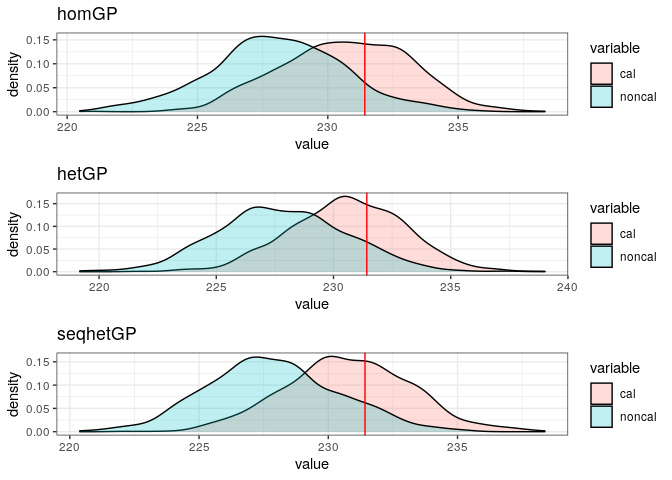
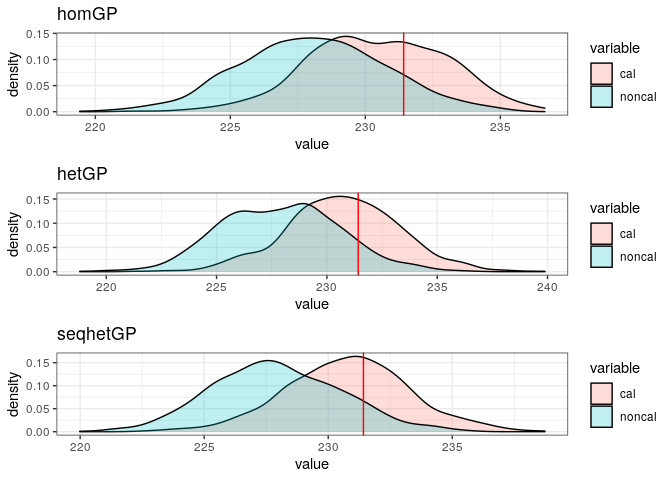
new guess

diff --git a/OceanCalibration.md b/OceanCalibration.md
@@ -498,7 +498,7 @@ SumOfSquares((c(700,200)-100)/900,seqhet,Xfield[,1:2],YfieldnoiseN)
 We propose a guess.
 
 ``` r
-guess = (c(600, 300) -100)/900 
+guess = (c(600, 400) -100)/900 
 ```
 
 Prediction for homGP
@@ -548,9 +548,9 @@ rbind(c(RMSEhomnoncalL2,RMSEhomnoncalguess,RMSEhomnoncal,RMSEhomcal),
 ```
 
     ##          [,1]     [,2]     [,3]     [,4]
-    ## [1,] 9.161634 9.155027 9.215462 9.141503
-    ## [2,] 9.163839 9.154872 9.216697 9.153309
-    ## [3,] 9.156190 9.152665 9.205429 9.145442
+    ## [1,] 9.160076 9.156535 9.221905 9.142948
+    ## [2,] 9.162898 9.158955 9.202503 9.152914
+    ## [3,] 9.153980 9.151235 9.220196 9.157108
 
 ``` r
 ScorehomnoncalL2 = scoreEstDens(ZpredhomGPnoncalL2,Ztest.sim)
@@ -572,6 +572,6 @@ rbind(c(ScorehomnoncalL2,Scorehomnoncalguess,Scorehomnoncal,Scorehomcal),
 ```
 
     ##           [,1]      [,2]      [,3]      [,4]
-    ## [1,] -2.538033 -2.565188 -2.599424 -2.313171
-    ## [2,] -2.556664 -2.587098 -2.610943 -2.318824
-    ## [3,] -2.543402 -2.568079 -2.636302 -2.294678
+    ## [1,] -2.504760 -2.659344 -2.589153 -2.318591
+    ## [2,] -2.550965 -2.707471 -2.616221 -2.317339
+    ## [3,] -2.553901 -2.685036 -2.614987 -2.295303
